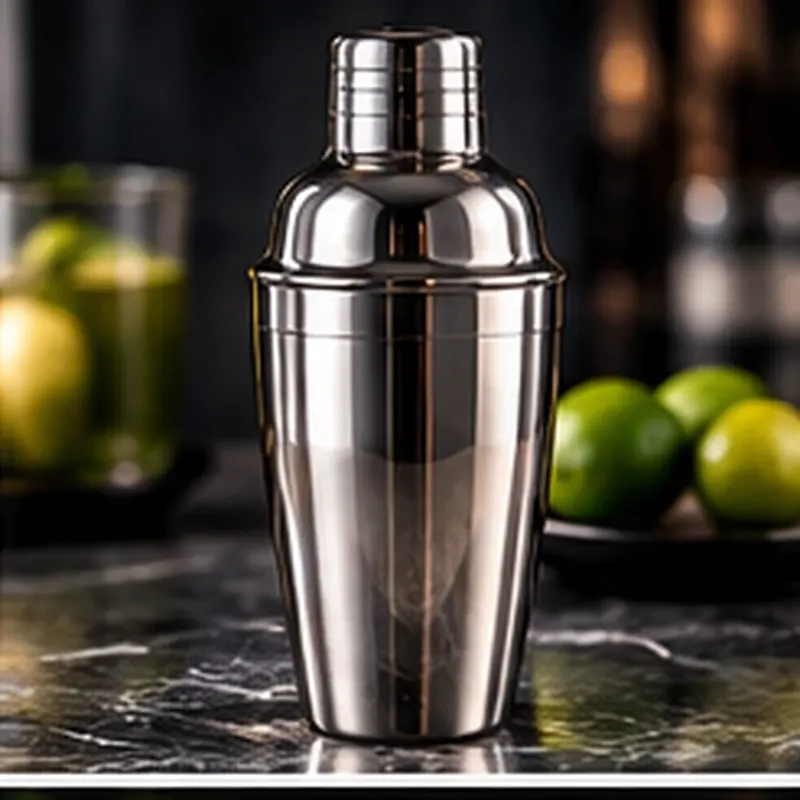
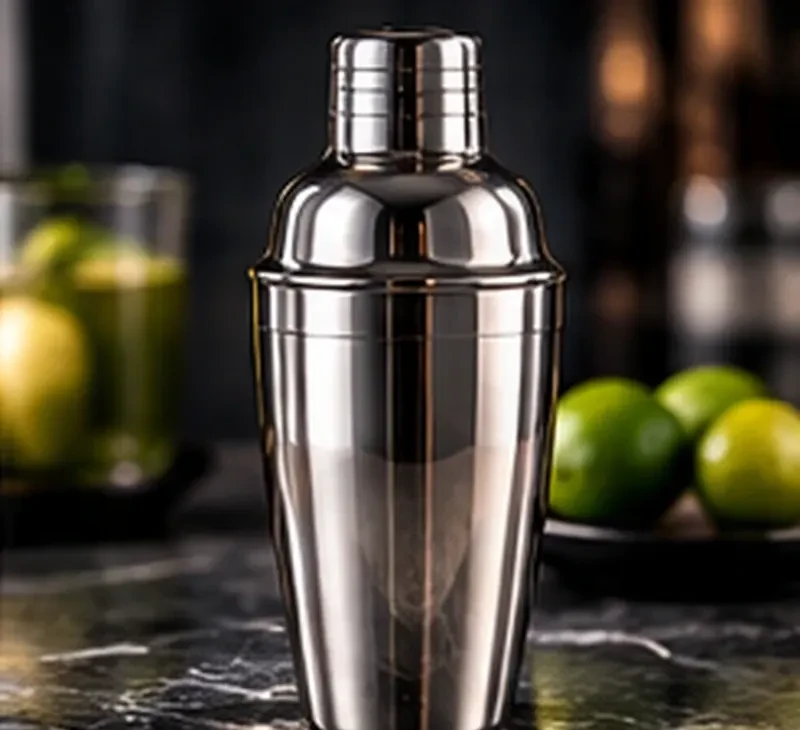
Add files via upload

diff --git a/styles.css b/styles.css
@@ -52,3 +52,10 @@ img{display:block;width:100%;height:100%;object-fit:cover}
 .card .row{margin-top:auto}
 @media(max-width:1000px){.media{height:auto;aspect-ratio:1 / 1}.card .body{min-height:205px}}
 @media(max-width:700px){.media{height:auto;aspect-ratio:1 / 1}.card .body{min-height:200px}}
+
+/* FROST V6 — clean product image framing */
+.media{aspect-ratio:800/730!important;height:auto!important;overflow:hidden!important;background:#edf4f7!important}
+.media>a{display:block!important;width:100%!important;height:100%!important;min-width:0!important;min-height:0!important}
+.media img{display:block!important;width:100%!important;height:100%!important;min-width:0!important;max-width:100%!important;object-fit:cover!important;object-position:center!important}
+@media(max-width:1000px){.media{aspect-ratio:800/730!important;height:auto!important}}
+@media(max-width:700px){.media{aspect-ratio:800/730!important;height:auto!important}}
